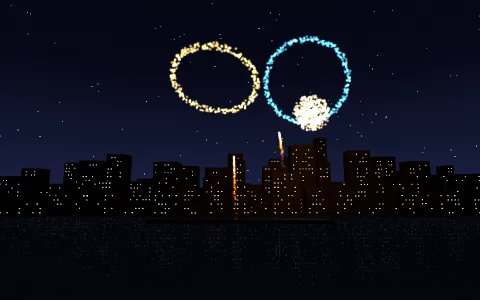
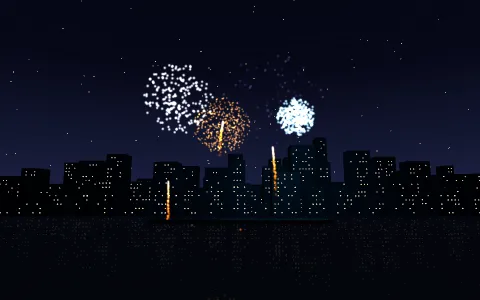
thumbnails framing tweaked

Changed region(s): [[0.2812, 0.12, 0.75, 0.72], [0.3438, 0.6, 0.375, 0.75]]

diff --git a/src/presets.js b/src/presets.js
@@ -79,13 +79,17 @@ export function fitBox(box, direction, { aspect, fov, padding = 0 }) {
   return fov === undefined ? Math.max(fit * 2, 1e-3) : Math.max(fit, 1e-3)
 }
 
+// where a perspective picture's middle sits, below the view's middle (in half-heights of the view):
+// a little low, so things standing on a floor look grounded rather than hung from the top edge
+const LOW = 0.12
+
 /**
- * How to fit a set of points in view from `direction`, centred on screen: where to look (the
- * centre) and the distance for a perspective camera (give `fov`) or the view height for an
- * orthographic one. Every point lands inside the view with `padding` to spare. Fitting the corners
- * of each thing drawn, rather than one box round them all, keeps a picture from sitting small in
- * the box's empty corners; with perspective, the near side looks bigger, so the centre moves until
- * the picture's middle is the view's.
+ * How to fit a set of points in view from `direction`: where to look (the centre) and the distance
+ * for a perspective camera (give `fov`), or the view height for an orthographic one. Every point
+ * lands inside the view with `padding` to spare. Fitting the corners of each thing drawn, rather
+ * than one box round them all, keeps a picture from sitting small in the box's empty corners. An
+ * orthographic picture is centred; a perspective one - whose near side looks bigger - is moved
+ * until it sits just below the middle, filling as much of the view as that allows.
  * @param {ArrayLike<number>[]} points world positions, at least one
  * @param {ArrayLike<number>} direction a unit vector from the points towards the camera
  * @param {{ aspect: number, fov?: number, padding?: number }} view as for fitBox
@@ -97,7 +101,7 @@ export function fitPoints(points, direction, { aspect, fov, padding = 0 }) {
   const right = ahead.clone().cross(Math.abs(ahead[1]) > 0.9999 ? [0, 0, -1] : [0, 1, 0]).normalize()
   const up = right.clone().cross(ahead)
   const axes = [right, up, ahead]
-  // the points in the camera's axes, and their middle
+  // the points in the camera's axes, and the middle of their spread
   const local = points.map((p) => axes.map((a) => p[0] * a[0] + p[1] * a[1] + p[2] * a[2]))
   const lo = [0, 1, 2].map((k) => Math.min(...local.map((q) => q[k]))), hi = [0, 1, 2].map((k) => Math.max(...local.map((q) => q[k])))
   const mid = [0, 1, 2].map((k) => (lo[k] + hi[k]) / 2)
@@ -115,14 +119,15 @@ export function fitPoints(points, direction, { aspect, fov, padding = 0 }) {
     return Math.max(x / tanH - z, y / tanV - z, near - z)
   }))
   let d = distance()
-  for (let i = 0; i < 6; i++) {
-    // where the points land, from -1 to 1 across the view: move the centre to their middle
+  for (let i = 0; i < 8; i++) {
+    // where the points land, from -1 to 1 across the view: move the centre until their middle is
+    // across the middle of the view, and just below it
     let u0 = Infinity, u1 = -Infinity, v0 = Infinity, v1 = -Infinity
     for (const q of local) {
       const depth = d + q[2] - mid[2], u = (q[0] - mid[0]) / depth / tanH, v = (q[1] - mid[1]) / depth / tanV
       u0 = Math.min(u0, u); u1 = Math.max(u1, u); v0 = Math.min(v0, v); v1 = Math.max(v1, v)
     }
-    const du = (u0 + u1) / 2, dv = (v0 + v1) / 2
+    const du = (u0 + u1) / 2, dv = (v0 + v1) / 2 + LOW
     if (Math.abs(du) < 1e-4 && Math.abs(dv) < 1e-4) break
     mid[0] += du * tanH * d
     mid[1] += dv * tanV * d

diff --git a/test/view.test.js b/test/view.test.js
@@ -202,7 +202,7 @@ describe('View projection', () => {
     expect(view.screenBounds(view.scene.add(new Group()))).toBeNull()
   })
 
-  it('frames what the camera draws, centred and filling the view - not hidden or turned-away parts', () => {
+  it('frames what the camera draws, filling the view a little below its middle - not hidden or turned-away parts', () => {
     const view = viewOf({ camera: { position: [6, 5, 9], target: [0, 0, 0] } })
     const chart = view.scene.add(new Group())
     chart.add(new Mesh({ geometry: box({ width: 4, height: 3, depth: 2 }), position: [0, 1.5, 0] }))
@@ -213,16 +213,20 @@ describe('View projection', () => {
     const drawn = chart.boundsFrom(view.camera)
     expect([drawn.min.toArray(), drawn.max.toArray()]).toEqual([[-2, 0, -1], [2, 3, 1]])
 
+    // how far out from the middle of the view the drawn part reaches, 1 being an edge
+    const reach = () => {
+      const r = /** @type {NonNullable<ReturnType<View['screenBounds']>>} */ (view.screenBounds(chart))
+      return Math.max(Math.abs(r.left - 150) / 150, Math.abs(r.right - 150) / 150, Math.abs(r.top - 75) / 75, Math.abs(r.bottom - 75) / 75)
+    }
     view.frame(chart, { padding: 0 })
-    const tight = /** @type {NonNullable<ReturnType<View['screenBounds']>>} */ (view.screenBounds(chart))
-    // touches two opposite edges, and is centred both ways
-    expect(Math.max(tight.width / 300, tight.height / 150)).toBeCloseTo(1, 2)
-    expect((tight.left + tight.right) / 2).toBeCloseTo(150, 0)
-    expect((tight.top + tight.bottom) / 2).toBeCloseTo(75, 0)
+    // centred across, a little below the middle, its furthest corner on an edge
+    const r = /** @type {NonNullable<ReturnType<View['screenBounds']>>} */ (view.screenBounds(chart))
+    expect((r.left + r.right) / 2).toBeCloseTo(150, 0)
+    expect((r.top + r.bottom) / 2).toBeCloseTo(75 * 1.12, 0)
+    expect(reach()).toBeCloseTo(1, 2)
     // padding is the margin, as a fraction of the size
     view.frame(chart, { padding: 0.25 })
-    const padded = /** @type {NonNullable<ReturnType<View['screenBounds']>>} */ (view.screenBounds(chart))
-    expect(Math.max(padded.width / 300, padded.height / 150)).toBeCloseTo(1 / 1.25, 2)
+    expect(reach()).toBeLessThan(0.85)
   })
 
   it('says how much of the view the drawn scene spans on screen', async () => {
@@ -230,7 +234,8 @@ describe('View projection', () => {
     view.scene.add(new Mesh({ geometry: box(2) }))
     view.frame(view.scene, { padding: 0 })
     const line = (await view.explain()).split('\n').find((l) => l.startsWith('Bounds'))
-    expect(line).toMatch(/on screen it spans \d+% of the view's width and 100% of its height/)
+    // just below the middle: its foot on the bottom edge, a little room above
+    expect(line).toMatch(/on screen it spans \d+% of the view's width and 8[5-9]% of its height/)
   })
 })
 

diff --git a/test/interaction.test.js b/test/interaction.test.js
@@ -268,8 +268,7 @@ describe('fitBox', () => {
     expect(reach(plan, camera)).toBeCloseTo(1, 3)
   })
 
-  it('fits points centred on screen, however the perspective shifts them', () => {
-    // a tall, deep block seen from above and in front: its near bottom looms, so the box's middle sits low
+  it('fits points centred across the view and just below its middle, the furthest on an edge', () => {
     const b = new Box3([-5, 0, -3], [5, 6, 3])
     const points = []
     for (let i = 0; i < 8; i++) points.push([i & 1 ? b.max[0] : b.min[0], i & 2 ? b.max[1] : b.min[1], i & 4 ? b.max[2] : b.min[2]])
@@ -281,8 +280,12 @@ describe('fitBox', () => {
     const ndc = points.map((p) => { const q = vec4.transformMat4(new Float32Array(4), [p[0], p[1], p[2], 1], vp); return [q[0] / q[3], q[1] / q[3]] })
     const xs = ndc.map((q) => q[0]), ys = ndc.map((q) => q[1])
     expect((Math.min(...xs) + Math.max(...xs)) / 2).toBeCloseTo(0, 2)
-    expect((Math.min(...ys) + Math.max(...ys)) / 2).toBeCloseTo(0, 2)
-    expect(Math.max(...xs.map(Math.abs), ...ys.map(Math.abs))).toBeCloseTo(1, 2)
+    // its middle 0.12 of the half-height below the view's, so it stands rather than hangs
+    expect((Math.min(...ys) + Math.max(...ys)) / 2).toBeCloseTo(-0.12, 2)
+    expect(Math.max(...ndc.flat().map(Math.abs))).toBeCloseTo(1, 2)
+    // padding leaves a margin
+    const padded = fitPoints(points, direction, { fov, aspect, padding: 0.25 })
+    expect(padded.size).toBeGreaterThan(size)
     // orthographic: the height that fits them, centred on their middle
     const plan = fitPoints([[-10, 0, -5], [10, 0, 5]], [0, 1, 0], { aspect: 2 })
     expect(plan.size).toBeCloseTo(10)
